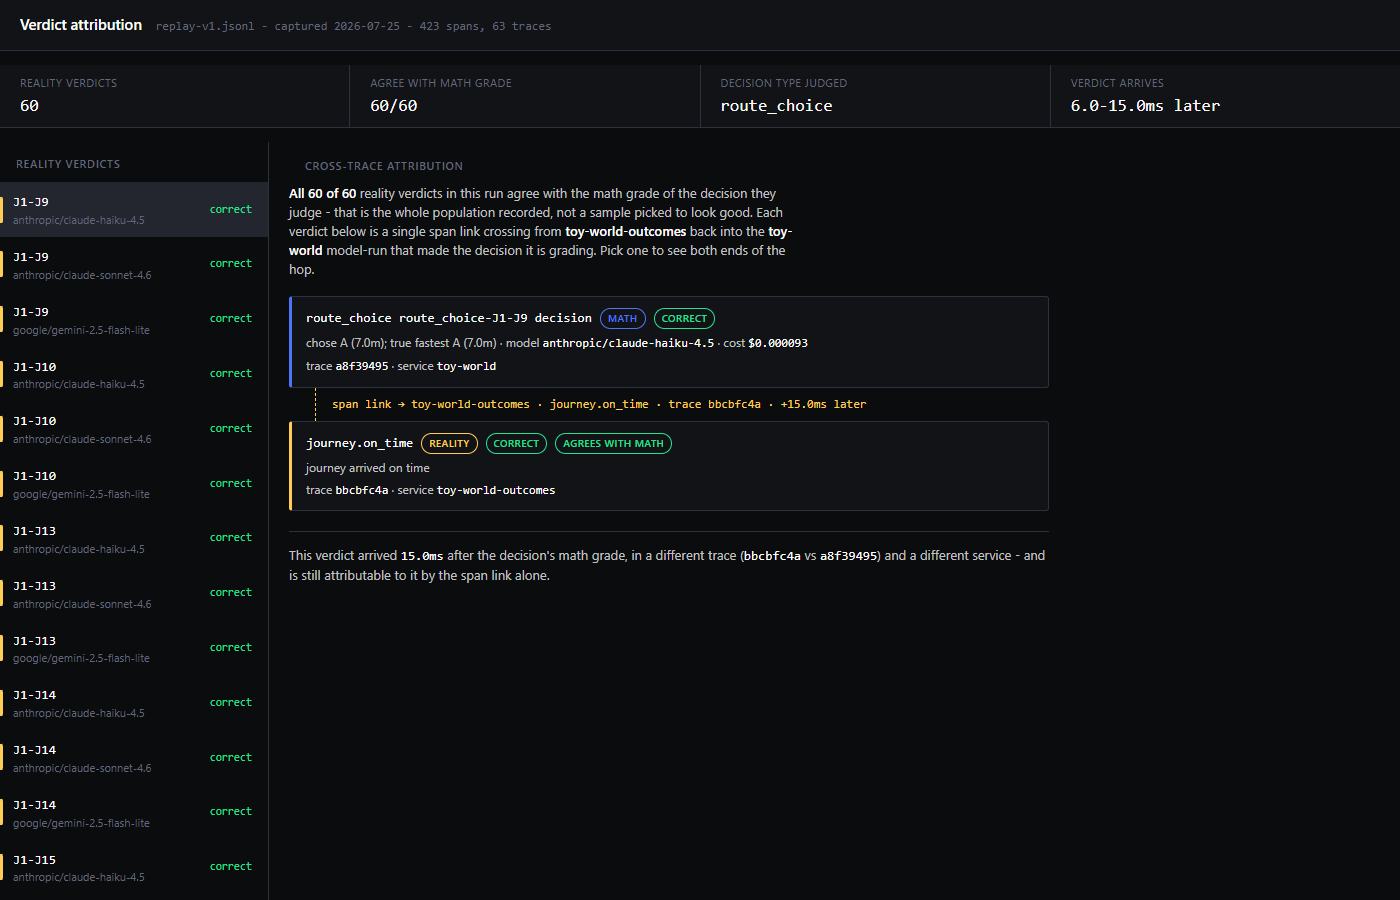
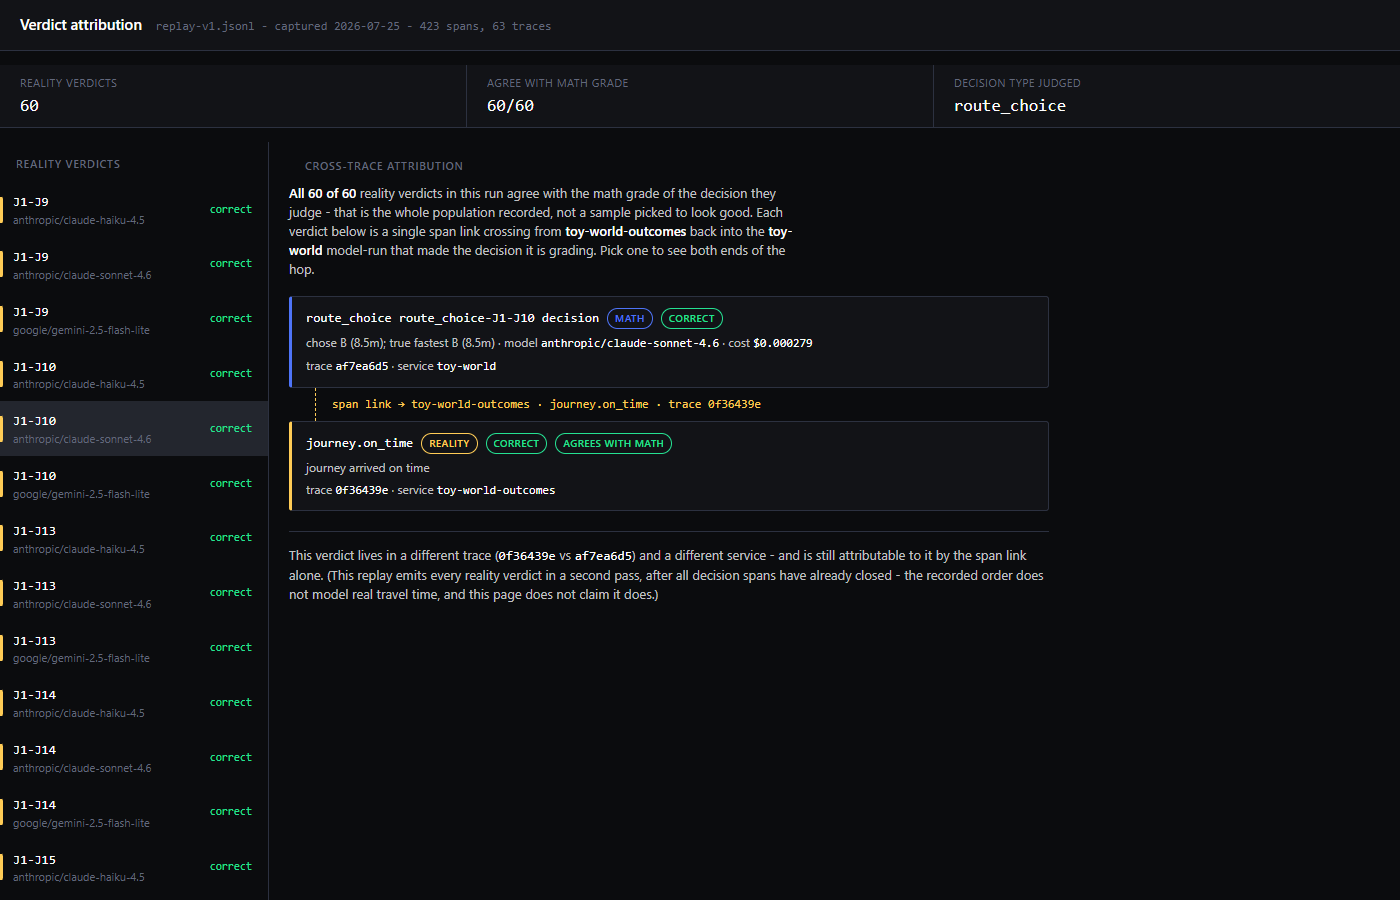
fix(#60): remove misleading verdict-delay framing, fix rail tag colour
Review findings on span-link.html:
1. "Verdict arrives 6.0-15.0ms later" read as a modeled property of the
   system. It is not: replay.py emits every reality verdict in a second
   pass after all decision spans have already closed, with no sleep or
   timing simulation, so the gap is Python/exporter overhead between two
   sequential loops in one process. Dropped the delay stat tile and every
   "Xms later" figure; kept the true, non-quantified fact (different
   trace, different service, attributable by the span link alone) and
   named the replay-ordering caveat explicitly in the per-hop copy and
   the README.
2. The rail's status tag was hardcoded forest green regardless of the
   verdict's actual grade, unlike the hop detail pills which already
   branch correctly. Added `.tag.incorrect` (cherry) and set it from
   `score.value`, so a disagreeing verdict can no longer render green.

Re-verified live via playwright-cli: 0 console errors, no horizontal
scroll at 375px, re-shot span-link.png.

diff --git a/docs/visuals/span-link.html b/docs/visuals/span-link.html
@@ -74,6 +74,7 @@
   .verdict .who { font-family: var(--mono); font-size: 13px; }
   .verdict .what { display: block; font-size: 11px; color: var(--text-faint); }
   .verdict .tag { font-size: 11px; font-family: var(--mono); color: var(--bg-forest-500); }
+  .verdict .tag.incorrect { color: var(--bg-cherry-500); }
 
   .canvas { padding: 16px 20px 28px; }
   .lede { margin: 0 0 18px; max-width: 72ch; color: var(--text-dim); font-size: 13px; }
@@ -164,8 +165,7 @@
       const id = (decision.name.match(/route_choice-(\S+)/) || [])[1] || decision.name;
       const model = attr(mathEval, 'gen_ai.request.model');
       const agree = attr(s, 'gen_ai.evaluation.score.label') === attr(mathEval, 'gen_ai.evaluation.score.label');
-      const delayMs = (s.startUnixNano - mathEval.startUnixNano) / 1e6;
-      return { verdict: s, decision, mathEval, id, model, agree, delayMs };
+      return { verdict: s, decision, mathEval, id, model, agree };
     })
     .sort((a, b) => a.id.localeCompare(b.id, undefined, { numeric: true }) || a.model.localeCompare(b.model));
 
@@ -187,7 +187,7 @@
           &middot; service <span class="num">${v.decision.service}</span></div>
       </div>
       <div class="link-in">span link &rarr; ${v.verdict.service} &middot; ${attr(v.verdict, 'gen_ai.evaluation.name')}
-        &middot; trace ${short(v.verdict.traceId)} &middot; +${v.delayMs.toFixed(1)}ms later</div>
+        &middot; trace ${short(v.verdict.traceId)}</div>
       <div class="node verdict-node">
         <div class="node-head">
           <span class="node-name">${attr(v.verdict, 'gen_ai.evaluation.name')}</span>
@@ -201,10 +201,11 @@
       </div>`;
 
     document.getElementById('totals').innerHTML =
-      `This verdict arrived <span class="num">${v.delayMs.toFixed(1)}ms</span> after the decision's math
-       grade, in a different trace (<span class="num">${short(v.verdict.traceId)}</span> vs
+      `This verdict lives in a different trace (<span class="num">${short(v.verdict.traceId)}</span> vs
        <span class="num">${short(v.decision.traceId)}</span>) and a different service - and is still
-       attributable to it by the span link alone.`;
+       attributable to it by the span link alone. (This replay emits every reality verdict in a second
+       pass, after all decision spans have already closed - the recorded order does not model real
+       travel time, and this page does not claim it does.)`;
   }
 
   function boot() {
@@ -214,13 +215,11 @@
 
     const agreeCount = verdicts.filter((v) => v.agree).length;
     const judgedTypes = new Set(verdicts.map((v) => attr(v.mathEval, 'augmentloop.decision.type')));
-    const delays = verdicts.map((v) => v.delayMs);
 
     document.getElementById('stats').innerHTML = [
       ['Reality verdicts', verdicts.length],
       ['Agree with math grade', `${agreeCount}/${verdicts.length}`],
       ['Decision type judged', judgedTypes.size === 1 ? [...judgedTypes][0] : `${judgedTypes.size} types`],
-      ['Verdict arrives', `${Math.min(...delays).toFixed(1)}-${Math.max(...delays).toFixed(1)}ms later`],
     ].map(([k, val]) => `<div class="stat"><dt>${k}</dt><dd>${val}</dd></div>`).join('');
 
     document.getElementById('lede').innerHTML = agreeCount === verdicts.length
@@ -240,7 +239,7 @@
         <span class="bar"></span>
         <span><span class="who">${v.id}</span>
           <span class="what">${v.model}</span></span>
-        <span class="tag">${attr(v.verdict, 'gen_ai.evaluation.score.label')}</span>
+        <span class="tag ${attr(v.verdict, 'gen_ai.evaluation.score.value') === 1 ? '' : 'incorrect'}">${attr(v.verdict, 'gen_ai.evaluation.score.label')}</span>
       </button>`).join('');
 
     document.getElementById('verdicts').addEventListener('click', (ev) => {

diff --git a/docs/visuals/README.md b/docs/visuals/README.md
@@ -23,12 +23,19 @@ the model-run trace that made it.
 
 **60 reality verdicts, all 60 judging a `route_choice` decision, all 60
 agreeing with that decision's math grade.** That is the whole population
-recorded in this run, not a sample chosen to look good. Each verdict arrives
-6.0-15.0ms after the decision's math grade, in a different trace and a
-different service, and is still attributable to it by the span link alone.
-Pick any of the 60 verdicts in the rail to see both ends of its hop: the
-decision's model, cost, math grade and explanation, and the verdict's own
-explanation.
+recorded in this run, not a sample chosen to look good. Each verdict lives in
+a different trace and a different service, and is still attributable to it by
+the span link alone. Pick any of the 60 verdicts in the rail to see both ends
+of its hop: the decision's model, cost, math grade and explanation, and the
+verdict's own explanation.
+
+This replay emits every reality verdict in a second pass, after all decision
+spans have already closed (`toy-world/src/toyworld/replay.py`), so the two
+spans' timestamps a few milliseconds apart are interpreter and exporter
+overhead between two sequential loops in one process - not modeled travel
+time. A real verdict would take the time the journey actually took. The page
+does not show a delay figure, so a reader cannot mistake replay overhead for
+system latency.
 
 The span link is the point. It is the piece of architecture that makes a late,
 cross-service, cross-trace verdict attributable to the decision that earned
